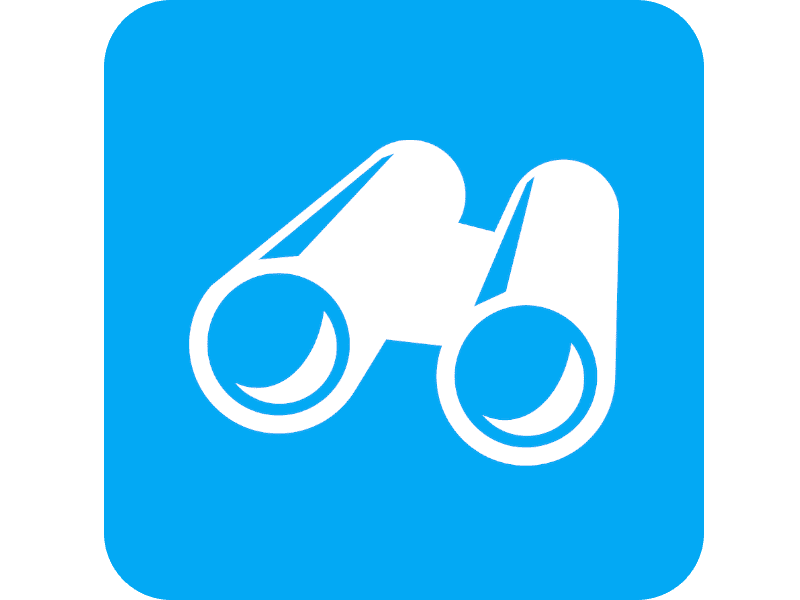
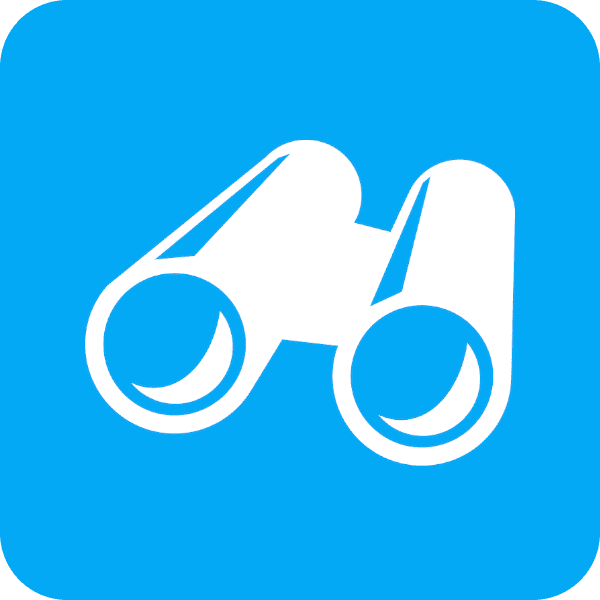
updated default image for teams

diff --git a/css/styles.css b/css/styles.css
@@ -313,6 +313,14 @@ html, body {
   width: 215px;
   height: 200px;
   background-size: cover !important;
+  background: var(--default-color-primary) no-repeat 50% 50%;
+}
+
+.year-card-image
+{
+  width: 215px;
+  height: 200px;
+  background-size: cover !important;
   background: no-repeat 50% 50%;
 }
 

diff --git a/classes/tables/core/Teams.php b/classes/tables/core/Teams.php
@@ -213,7 +213,7 @@ class Teams extends CoreTable
             $html .=
                     '<div style="height: unset">' .
                     ((empty($robotMedia->FileURI)) ? '' : '<a href="' . TEAMS_URL . 'photos?eventId=' . $event->BlueAllianceId . '&teamId=' . $this->Id . '">') .
-                        '<div class="team-card-image" style="background-image: url(' . ((empty($robotMedia->FileURI)) ? IMAGES_URL . 'frc_logo.jpg' : ROBOT_MEDIA_THUMBS_URL . $robotMedia->FileURI) . ')"></div>' .
+                        '<div class="team-card-image" style="background-image: url(' . ((empty($robotMedia->FileURI)) ? IMAGES_URL . 'app-icon.png' : ROBOT_MEDIA_THUMBS_URL . $robotMedia->FileURI) . ')"></div>' .
                     ((empty($robotMedia->FileURI)) ? '' : '</a>') .
                     '</div>';
 

diff --git a/classes/tables/core/Years.php b/classes/tables/core/Years.php
@@ -64,7 +64,7 @@ class Years extends CoreTable
 
             $html .=
                     '<div style="height: unset">' .
-                        '<div class="team-card-image" style="background-image: url(' . ((empty($this->ImageUri)) ? IMAGES_URL . 'frc_logo.jpg' : YEAR_MEDIA_URL . $this->ImageUri) . ')"></div>' .
+                        '<div class="year-card-image" style="background-image: url(' . ((empty($this->ImageUri)) ? IMAGES_URL . 'frc_logo.jpg' : YEAR_MEDIA_URL . $this->ImageUri) . ')"></div>' .
                     '</div>';
 
             $html .=
